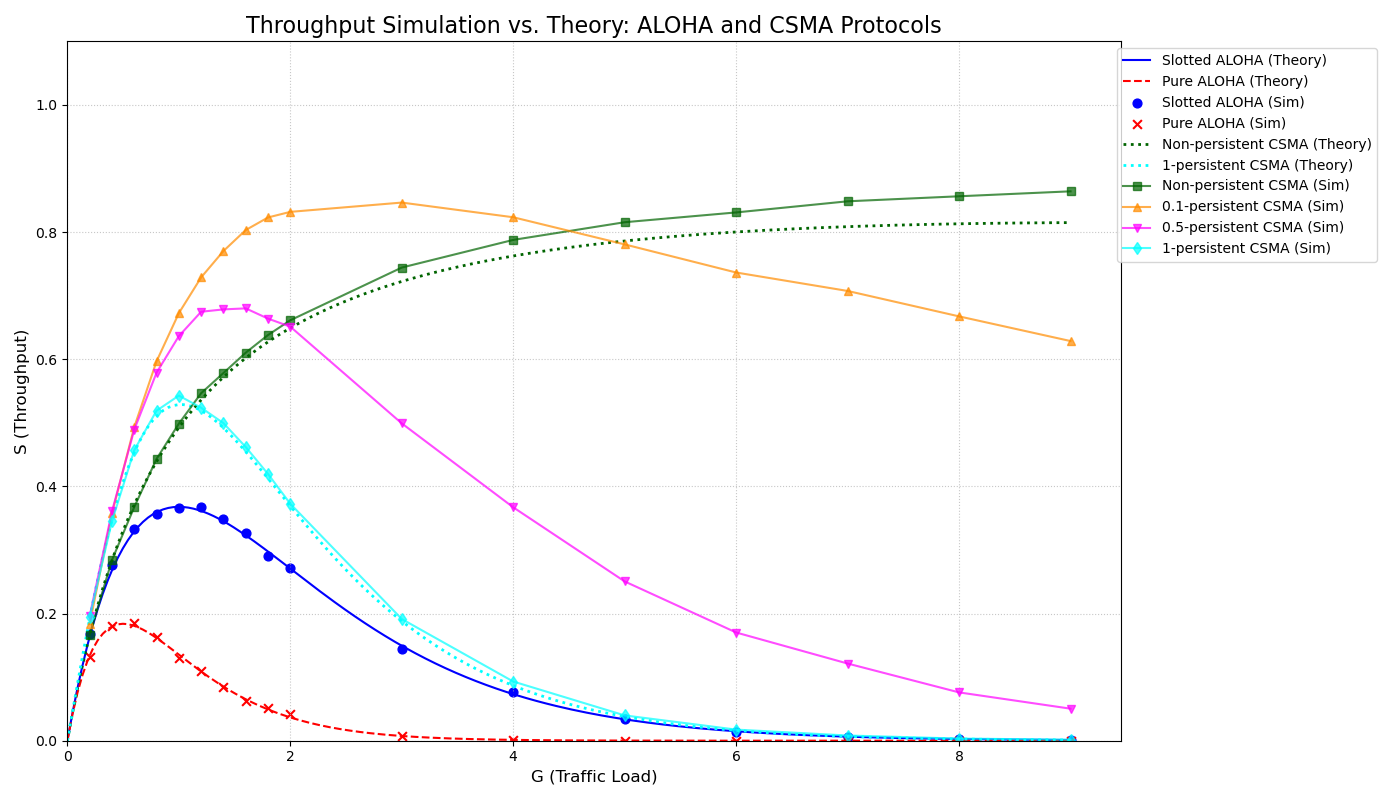
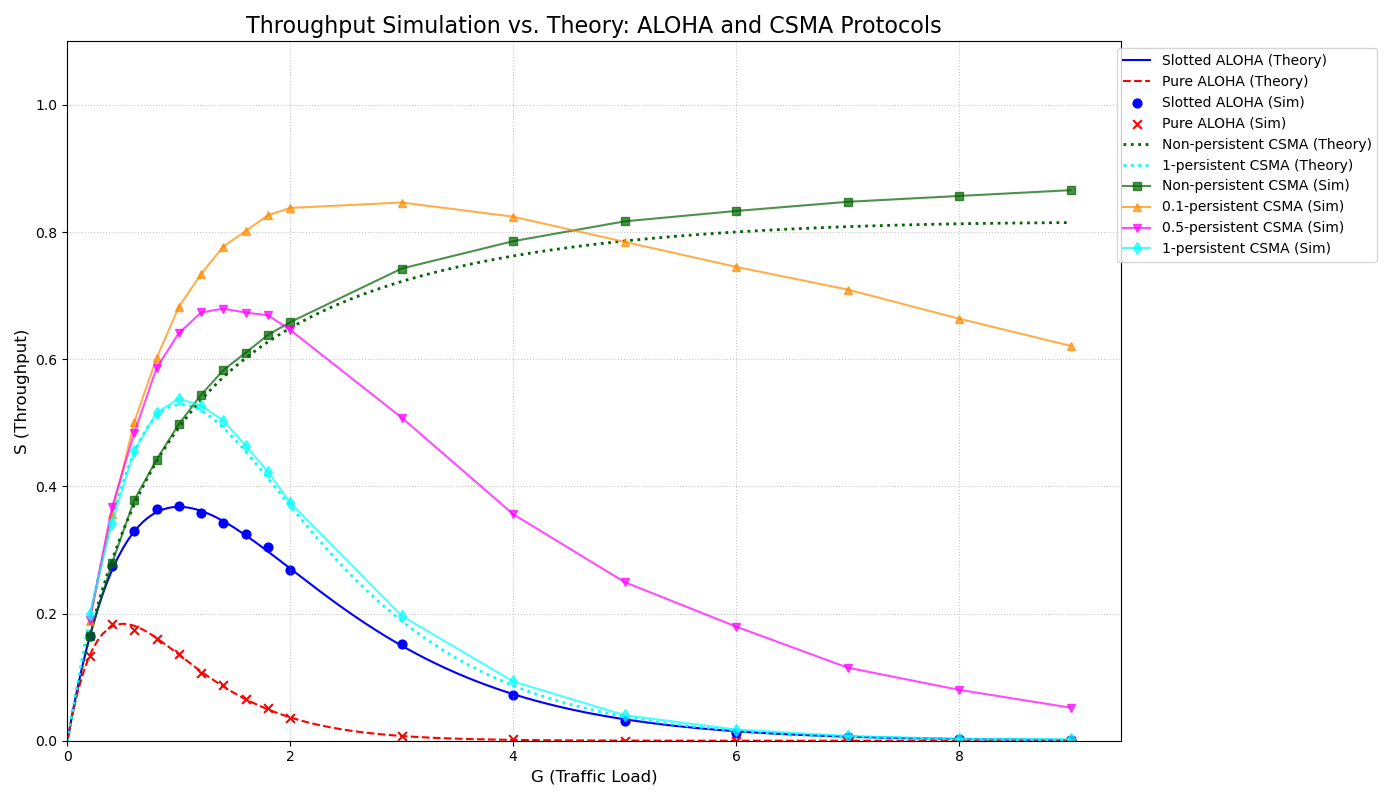
2

diff --git a/README.md b/README.md
@@ -10,10 +10,8 @@
 
 ## 주요 특징
 * **통합 시뮬레이터:** 단일 핵심 C 프로그램(`channel_sim.c`)이 ALOHA 및 CSMA 프로토콜 제품군을 모두 처리합니다.
-* **이산 시간 해상도:** 틱(tic) 기반의 타이밍 모델을 통해 슬롯 경계를 정밀하게 시뮬레이션하며, Pure ALOHA의 연속 시간 취약 기간(vulnerable period)을 근사합니다.
 * **포괄적인 CSMA 변체 지원:** 매개변수 설정을 통해 Non-persistent, 1-persistent, p-persistent (0.1 및 0.5) CSMA 모드를 모두 지원합니다.
 * **이론적 검증:** Python 시각화 도구가 시뮬레이션 결과 위에 분석적 이론 방정식을 자동으로 겹쳐서 그려줍니다.
-* **자동화된 워크플로우:** `Makefile`을 통해 컴파일, 실행, 데이터 라우팅, 그래프 작성을 단일 명령어로 원활하게 제어합니다.
 
 ---
 
@@ -73,13 +71,13 @@
 ALOHA 시뮬레이션은 구조적 제약을 모방하기 위해 `success_rate()` 내부에서 시간의 입도(`tic_per_slot`)를 변경합니다.
 
 * **Slotted ALOHA (tic_per_slot = 1)**
-* 시간이 슬롯 경계에 엄격하게 정렬됩니다. 스테이션은 정확한 틱 마크에서만 전송을 시작할 수 있습니다.
+* slot 당 tic이 1개로 고정하여 slotted aloha를 구현합니다.
 * 한 슬롯에서 정확히 1개의 스테이션만 전송하면 `FULL`(성공)로 기록됩니다. 2개 이상의 스테이션이 전송하면 즉시 충돌(`FAIL`)이 발생합니다.
 
 
 * **Pure ALOHA (tic_per_slot = 100)**
-* 스테이션은 패킷이 도착하는 즉시 완전히 비동기적으로 전송을 시작합니다.
-* 취약 기간($2 \times \text{패킷 지속 시간}$)을 캡처하기 위해 패킷 지속 시간은 100 틱에 걸쳐 있습니다. 활성 전송이 진행되는 동안 다른 전송이 시작되면 현재 전송과 겹치는 패킷이 모두 취소되어 전송 중 충돌을 시뮬레이션합니다.
+* slot 당 tic이 100개로 고정하여 pure aloha를 구현합니다. tic_per_slot이 커질수록 이산오차가 감소합니다.
+* 활성 전송이 진행되는 동안 다른 전송이 시작되면 현재 전송과 겹치는 패킷이 모두 취소되어 전송 중 충돌을 시뮬레이션합니다.
 
 
 
@@ -90,6 +88,7 @@ ALOHA 시뮬레이션은 구조적 제약을 모방하기 위해 `success_rate()
 * **Non-Persistent CSMA**
 * 채널이 유휴 상태(`!busy`)로 감지되면 스테이션은 즉시 전송합니다.
 * 채널이 사용 중으로 감지되면 스테이션은 즉시 시도를 포기하고 백오프(back off)합니다. 채널이 해제될 때 즉시 전송하기 위해 대기열에 추가되지 않습니다.
+* 이론값과 오차가 약간의 오차가 있는 것을 확인할 수 있습니다. 이는 tic_per_slot=100으로 설정함에 따른 이산 오차로 추정됩니다.
 
 
 * **1-Persistent CSMA**